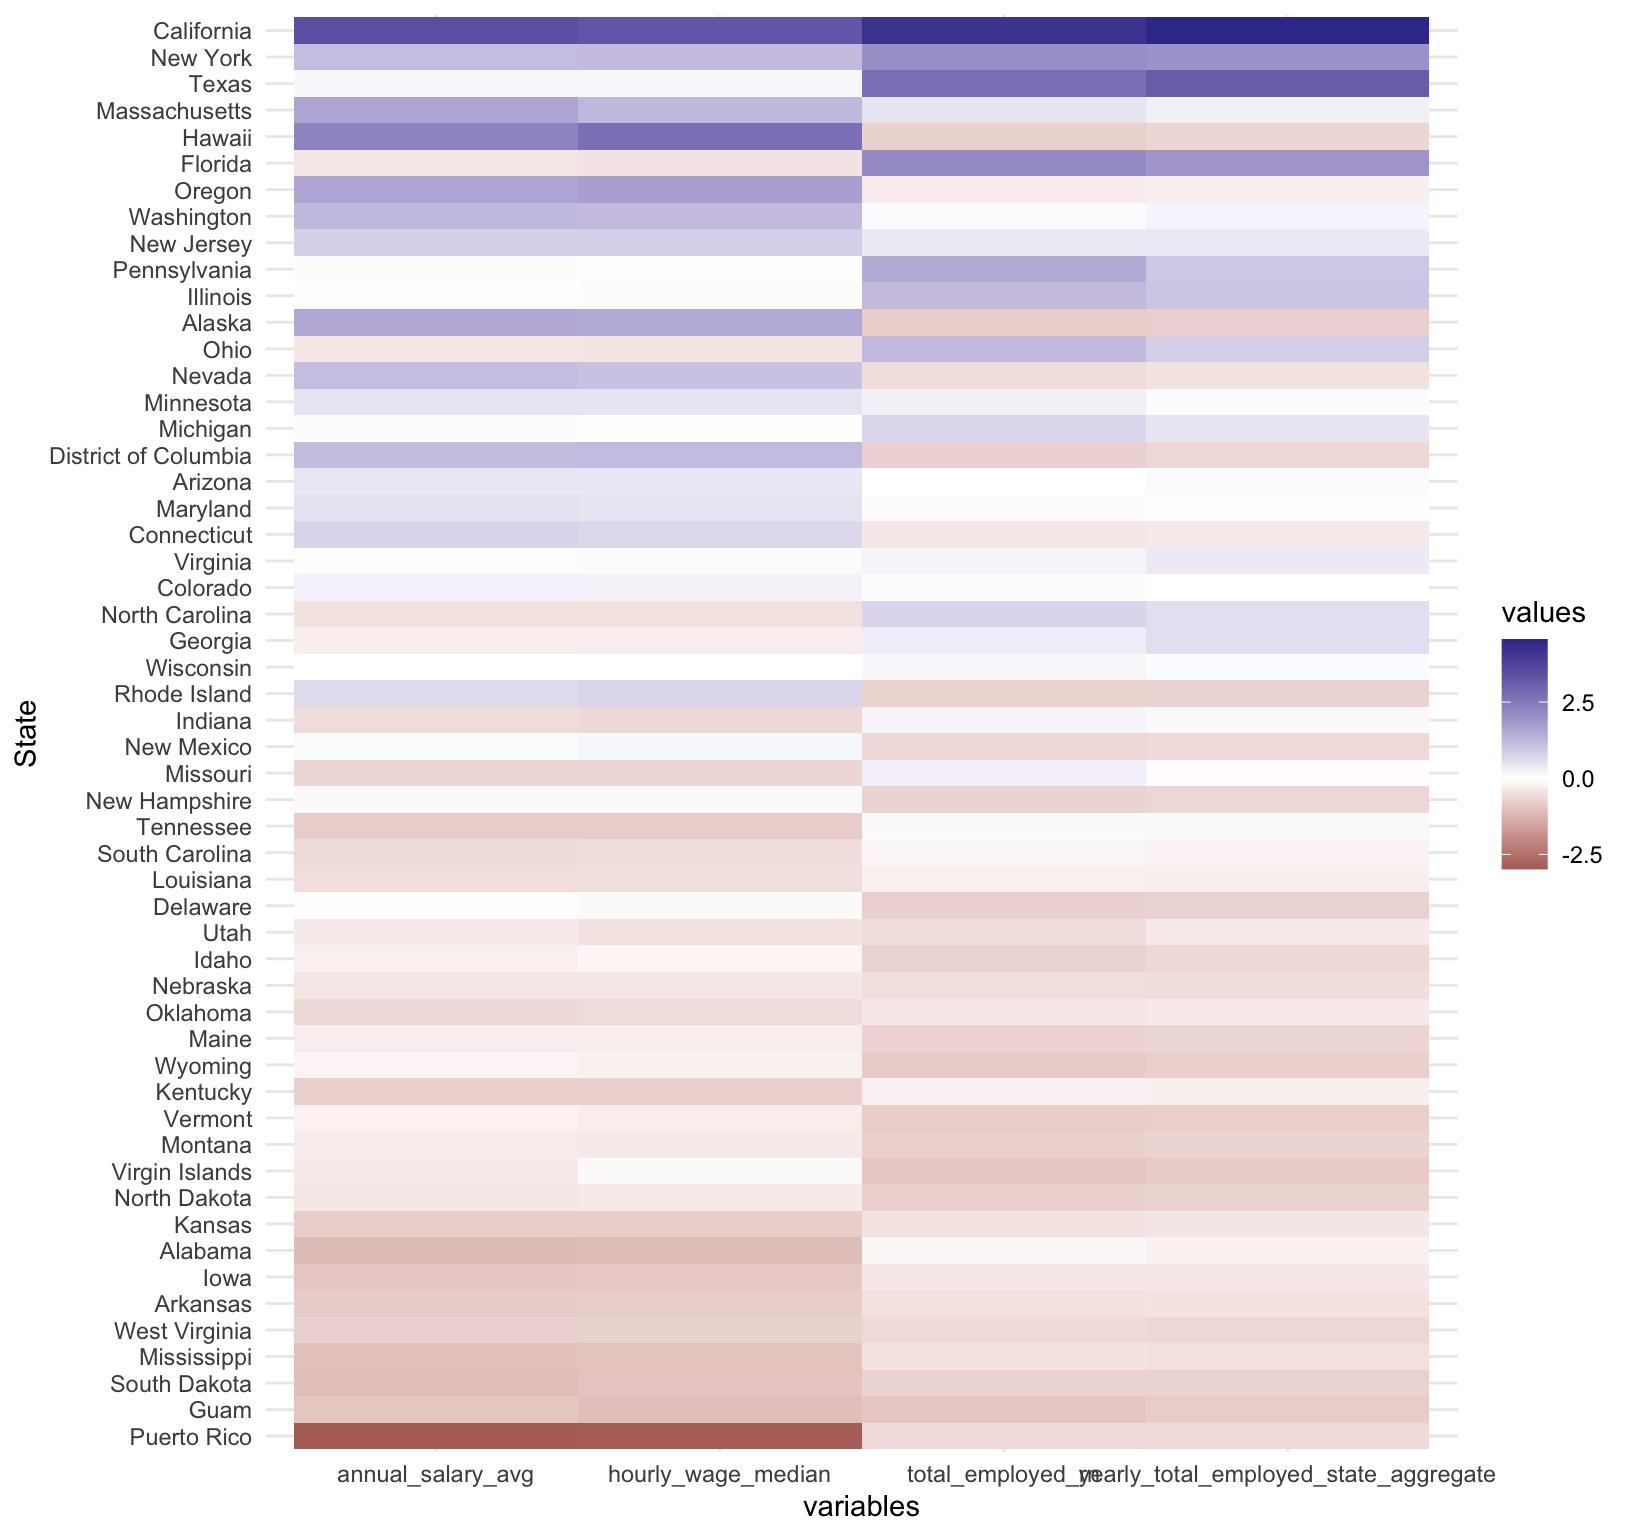
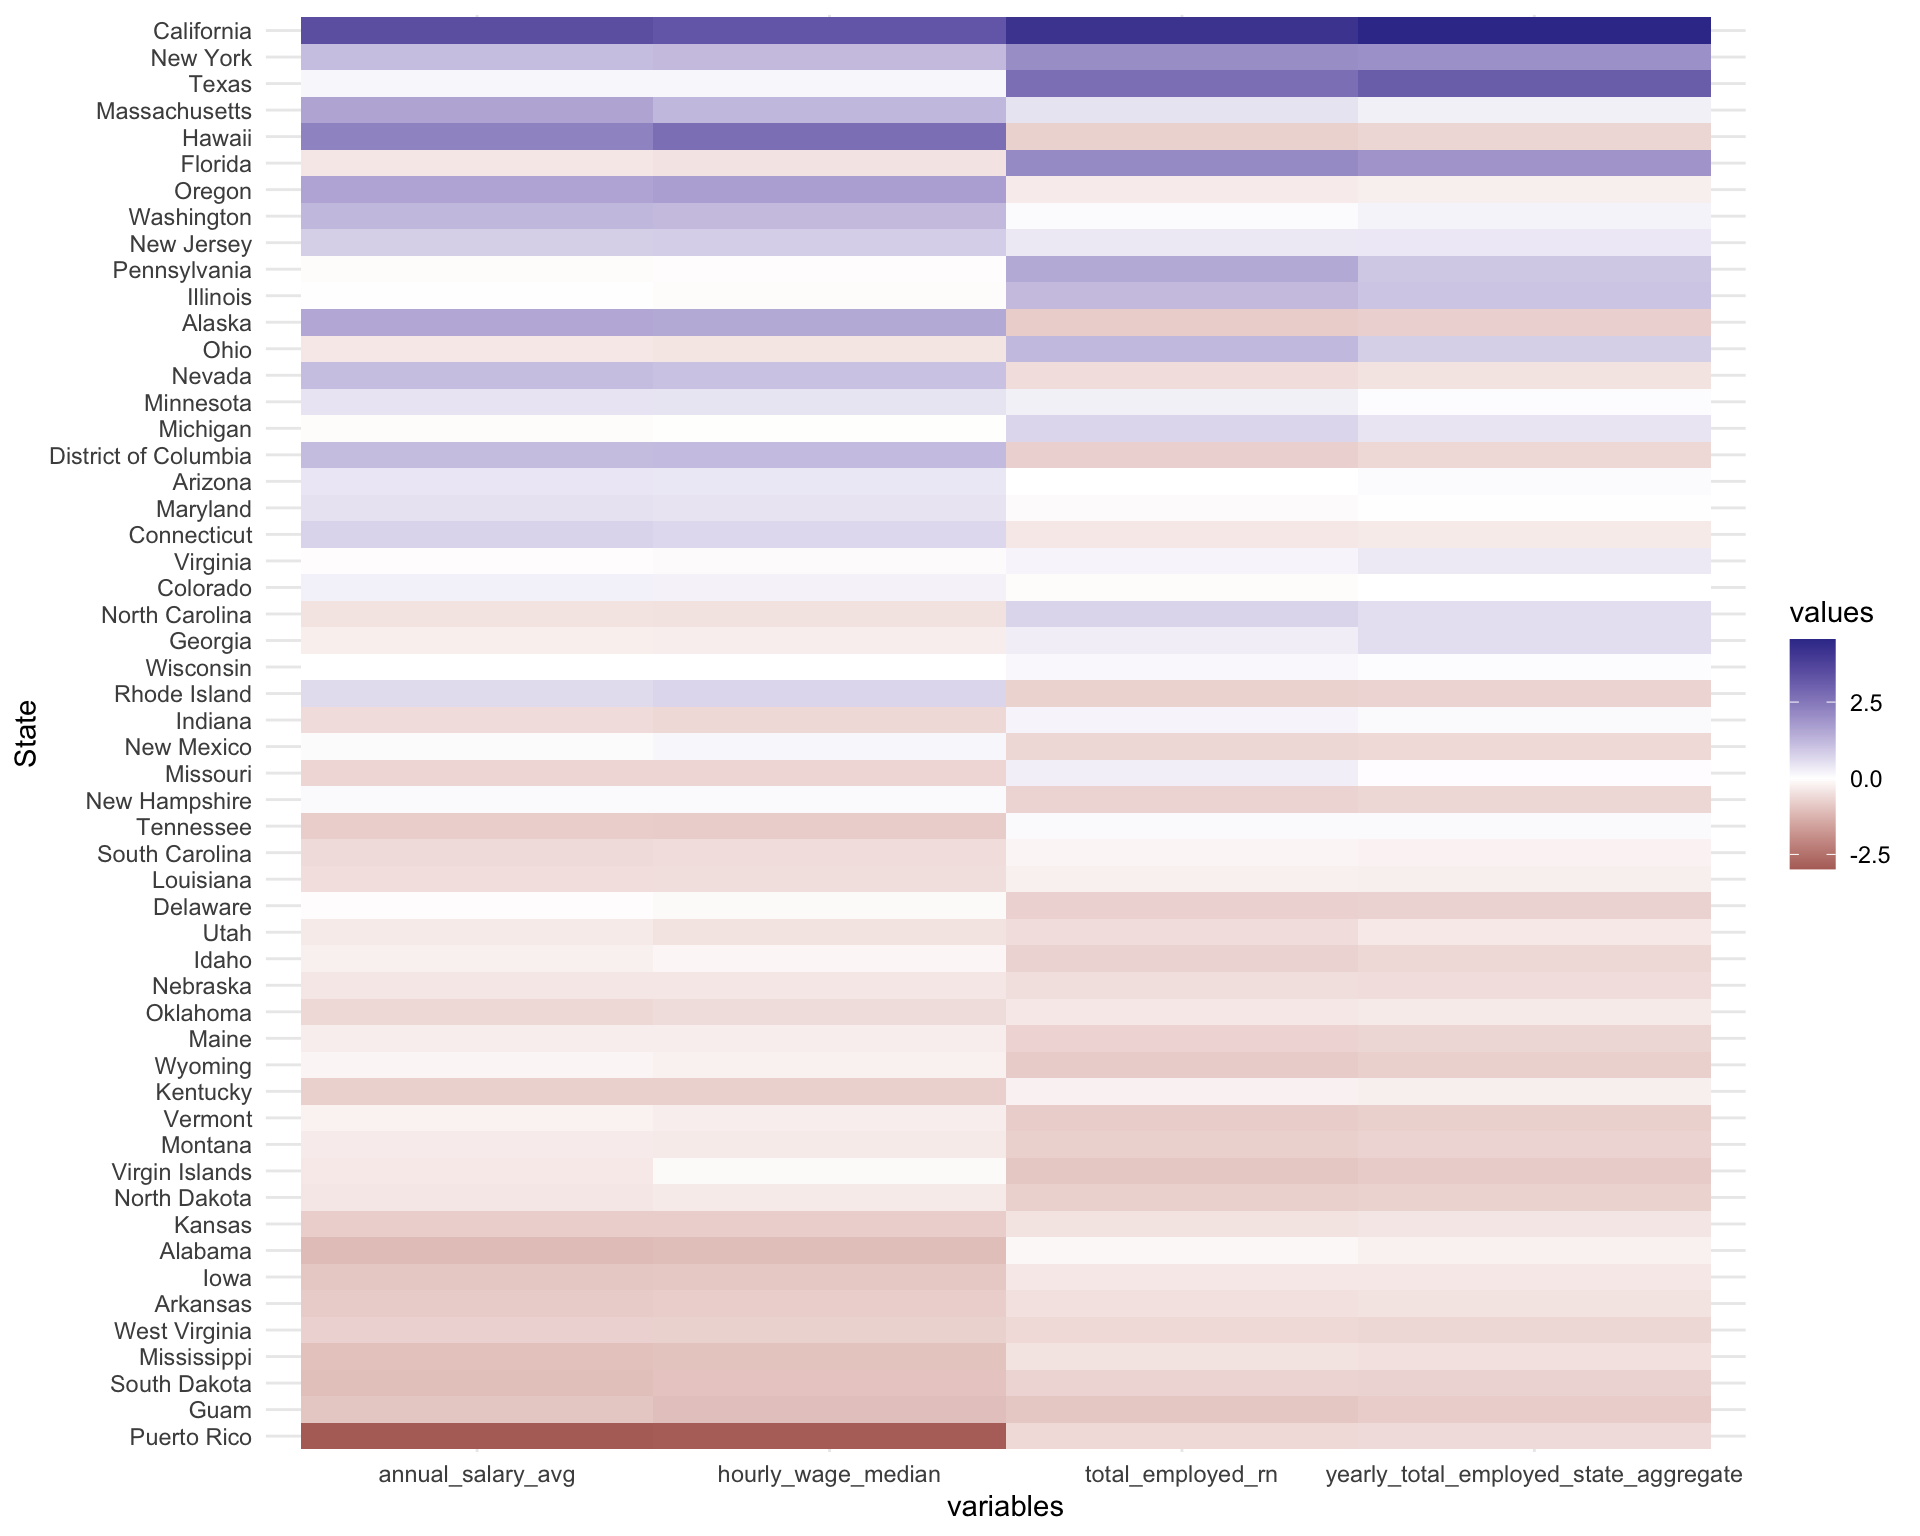
added tidytuesday to website

diff --git a/_site/TidyTuesday3.html b/_site/TidyTuesday3.html
@@ -276,66 +276,25 @@ $(document).ready(function () {
 </div>
 
 
-<pre class="r"><code>library(tidyverse)</code></pre>
-<pre><code>## ── Attaching packages ─────────────────────────────────────── tidyverse 1.3.1 ──</code></pre>
-<pre><code>## ✓ ggplot2 3.3.5     ✓ purrr   0.3.4
-## ✓ tibble  3.1.4     ✓ dplyr   1.0.7
-## ✓ tidyr   1.1.3     ✓ stringr 1.4.0
-## ✓ readr   2.0.1     ✓ forcats 0.5.1</code></pre>
-<pre><code>## ── Conflicts ────────────────────────────────────────── tidyverse_conflicts() ──
-## x dplyr::filter() masks stats::filter()
-## x dplyr::lag()    masks stats::lag()</code></pre>
-<pre class="r"><code>library(dplyr)
+<pre class="r"><code>library(tidyverse)
+library(dplyr)
 library(tidytuesdayR)
 library(ggplot2)
-library(tidyverse)
-library(devtools) </code></pre>
-<pre><code>## Loading required package: usethis</code></pre>
-<pre><code>## 
-## Attaching package: &#39;devtools&#39;</code></pre>
-<pre><code>## The following object is masked from &#39;package:tidytuesdayR&#39;:
-## 
-##     github_pat</code></pre>
-<pre class="r"><code>library(openintro)</code></pre>
-<pre><code>## Loading required package: airports</code></pre>
-<pre><code>## Loading required package: cherryblossom</code></pre>
-<pre><code>## Loading required package: usdata</code></pre>
-<pre class="r"><code>library(ggthemes)
-library(gplots) </code></pre>
-<pre><code>## 
-## Attaching package: &#39;gplots&#39;</code></pre>
-<pre><code>## The following object is masked from &#39;package:stats&#39;:
-## 
-##     lowess</code></pre>
-<pre class="r"><code>library(janitor)</code></pre>
-<pre><code>## 
-## Attaching package: &#39;janitor&#39;</code></pre>
-<pre><code>## The following objects are masked from &#39;package:stats&#39;:
-## 
-##     chisq.test, fisher.test</code></pre>
-<pre class="r"><code>library(RColorBrewer) 
+library(devtools) 
+library(openintro)
+library(ggthemes)
+library(gplots) 
+library(janitor)
+library(RColorBrewer) 
 library(ggmosaic) #NEW! Enhanced barplot
-library(tidyverse)
-library(gridExtra) </code></pre>
-<pre><code>## 
-## Attaching package: &#39;gridExtra&#39;</code></pre>
-<pre><code>## The following object is masked from &#39;package:dplyr&#39;:
-## 
-##     combine</code></pre>
-<pre class="r"><code>library(ggridges) 
-library(devtools)</code></pre>
+library(gridExtra) 
+library(ggridges) </code></pre>
 <div id="registered-nurses" class="section level2">
 <h2>Registered Nurses</h2>
 <pre class="r"><code>nurses &lt;- readr::read_csv(&#39;https://raw.githubusercontent.com/rfordatascience/tidytuesday/master/data/2021/2021-10-05/nurses.csv&#39;)</code></pre>
-<pre><code>## Rows: 1242 Columns: 22</code></pre>
-<pre><code>## ── Column specification ────────────────────────────────────────────────────────
-## Delimiter: &quot;,&quot;
-## chr  (1): State
-## dbl (21): Year, Total Employed RN, Employed Standard Error (%), Hourly Wage ...</code></pre>
-<pre><code>## 
-## ℹ Use `spec()` to retrieve the full column specification for this data.
-## ℹ Specify the column types or set `show_col_types = FALSE` to quiet this message.</code></pre>
-<p>#Heat Map</p>
+</div>
+<div id="heat-map" class="section level1">
+<h1>Heat Map</h1>
 <pre class="r"><code>nurses &lt;- nurses %&gt;% clean_names()</code></pre>
 <pre class="r"><code>nur_long &lt;-
   nurses %&gt;% 
@@ -351,7 +310,7 @@ library(devtools)</code></pre>
   scale_fill_gradient2() +
   theme_minimal() +
   ylab(&quot;State&quot;)</code></pre>
-<p><img src="TidyTuesday3_files/figure-html/unnamed-chunk-4-1.png" width="816" /> This heatmap shows 4 variables in their scaled form, for each state. Each variable (column) is scaled to indicate states (rows) with high values (Purple) to low values (red/pink). This allows the audience to scan across rows &amp; across columns to visually assess which states &amp; variables are related, respectively.</p>
+<p><img src="TidyTuesday3_files/figure-html/unnamed-chunk-4-1.png" width="960" /> This heatmap shows 4 variables in their scaled form, for each state. Each variable (column) is scaled to indicate states (rows) with high values (Purple) to low values (red/pink). This allows the audience to scan across rows &amp; across columns to visually assess which states &amp; variables are related, respectively.</p>
 <p>I filtered the information for only the year of 2020 because due to the pandemic, the highering and the salary of nurses went up significantly in the US in general, but I wanted to compare each indeividual State. The variables I chose to show the variation were Average Annual Salary, the Median Hourly Wage, Total number of new Nurses employed and the Aggregate of total nurses employed yearly.</p>
 <p>The heatmap shows that in general, the states that hired the most also paid the most to nurses in 2020, which are located at the top, with New York leading the map. It is super interesting to analyze what patterns emerge thorugh the graphing of this data.</p>
 </div>
